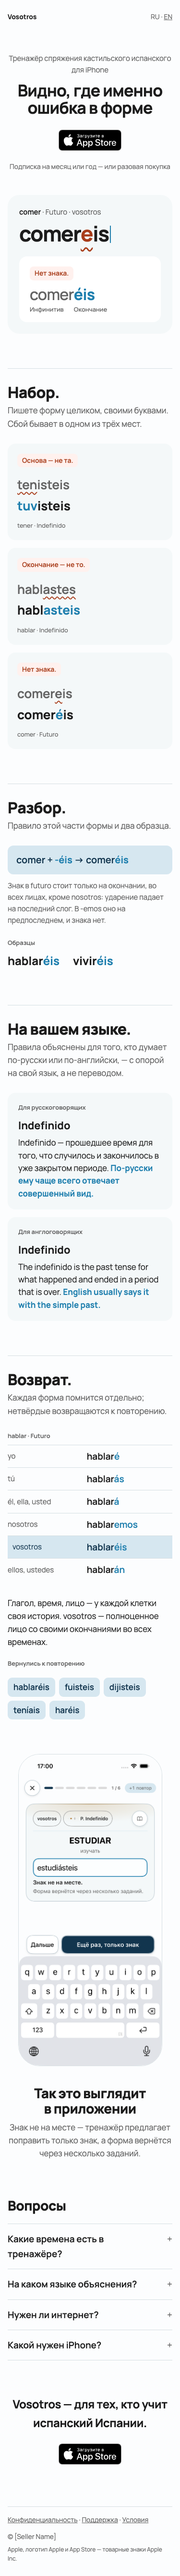
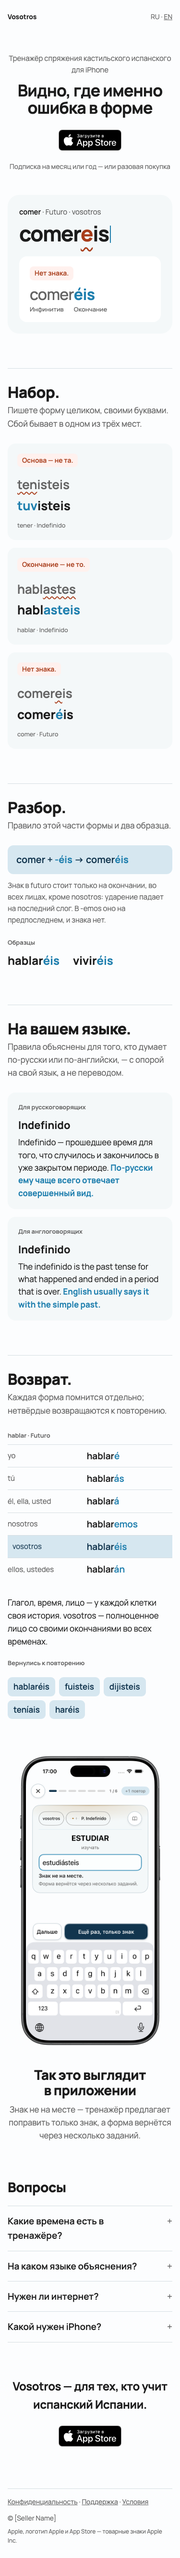
ЛН-1: кадр приложения в официальной рамке Apple (Bezel-iPhone-17.dmg, «iPhone 17 – Black – Portrait», окно 1206×2622 @72,69), день/ночь; итоговые кадры

diff --git a/design/variant-B-ekspert.html b/design/variant-B-ekspert.html
@@ -79,7 +79,7 @@ tr.me{background:var(--nest)} tr.me th,tr.me td{color:var(--nestInk)} tr.me th{p
 
 .shot{display:grid;grid-template-columns:300px minmax(0,1fr);gap:40px;align-items:center}
 @media (max-width:760px){.shot{grid-template-columns:1fr;justify-items:center;text-align:center}}
-.shot picture img{display:block;width:300px;max-width:80vw;height:auto;border-radius:44px;border:1px solid var(--line)}
+.shot picture img{display:block;width:300px;max-width:80vw;height:auto}
 .shot h2{font-size:clamp(28px,4vw,32px);font-weight:800;letter-spacing:-.02em;line-height:1.15;margin:0 0 10px}
 .shot p{margin:0;color:var(--muted);max-width:36ch}
 .faq details{border-top:1px solid var(--line);padding:16px 0}
@@ -166,7 +166,7 @@ footer small{font-size:12px}
 </section>
 
 <section class="shot">
-<picture><source srcset="img/trenirovka-znak-ru-noch.png" media="(prefers-color-scheme: dark)"><img src="img/trenirovka-znak-ru.png" width="300" height="652" alt="Экран тренировки: estudiar, vosotros, Indefinido; набрано estudiásteis; подпись «Знак не на месте. Форма вернётся через несколько заданий.»" loading="lazy"></picture>
+<picture><source srcset="img/trenirovka-znak-ru-ramka-noch.png" media="(prefers-color-scheme: dark)"><img src="img/trenirovka-znak-ru-ramka.png" width="300" height="613" alt="iPhone 17, экран тренировки: estudiar, vosotros, Indefinido; набрано estudiásteis; подпись «Знак не на месте. Форма вернётся через несколько заданий.»" loading="lazy"></picture>
 <div><h2>Так это выглядит в&nbsp;приложении</h2><p>Знак не на месте — тренажёр предлагает поправить только знак, а форма вернётся через несколько заданий.</p></div>
 </section>
 
